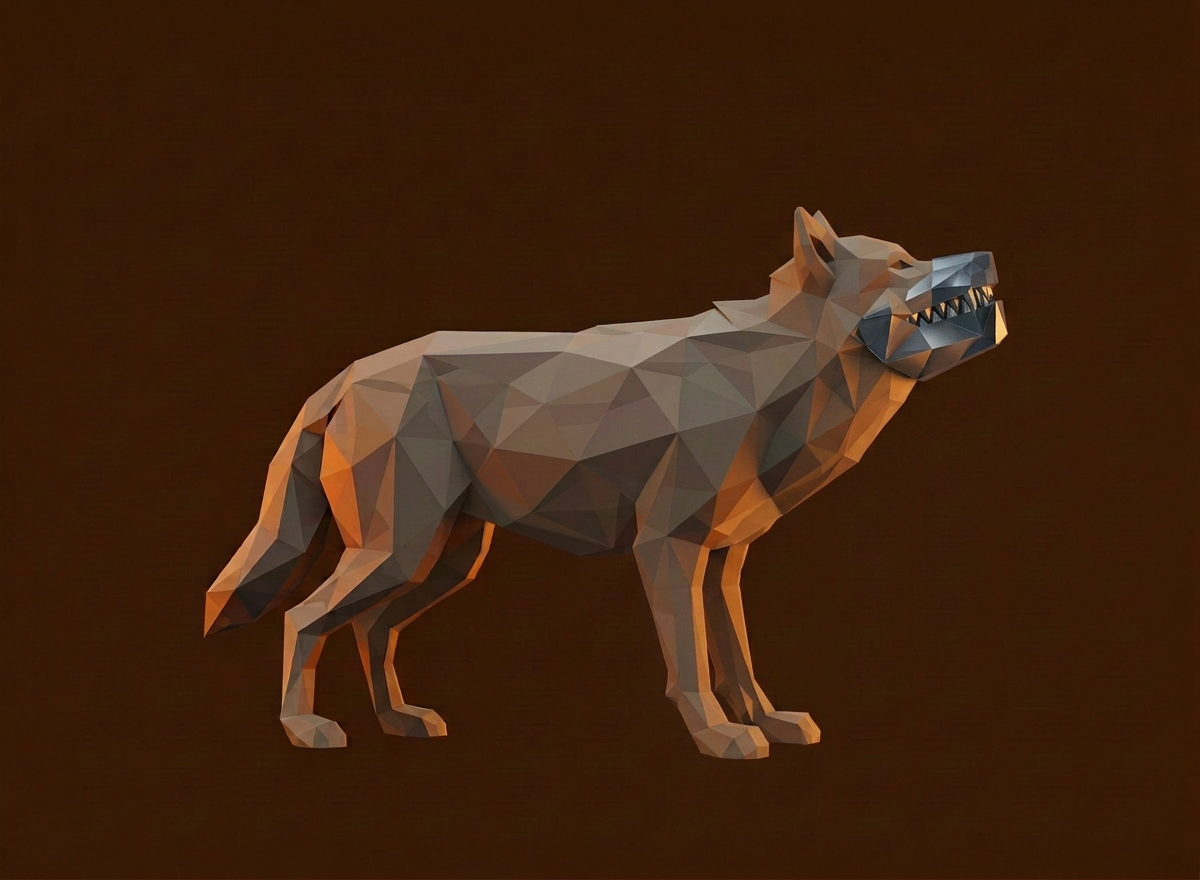
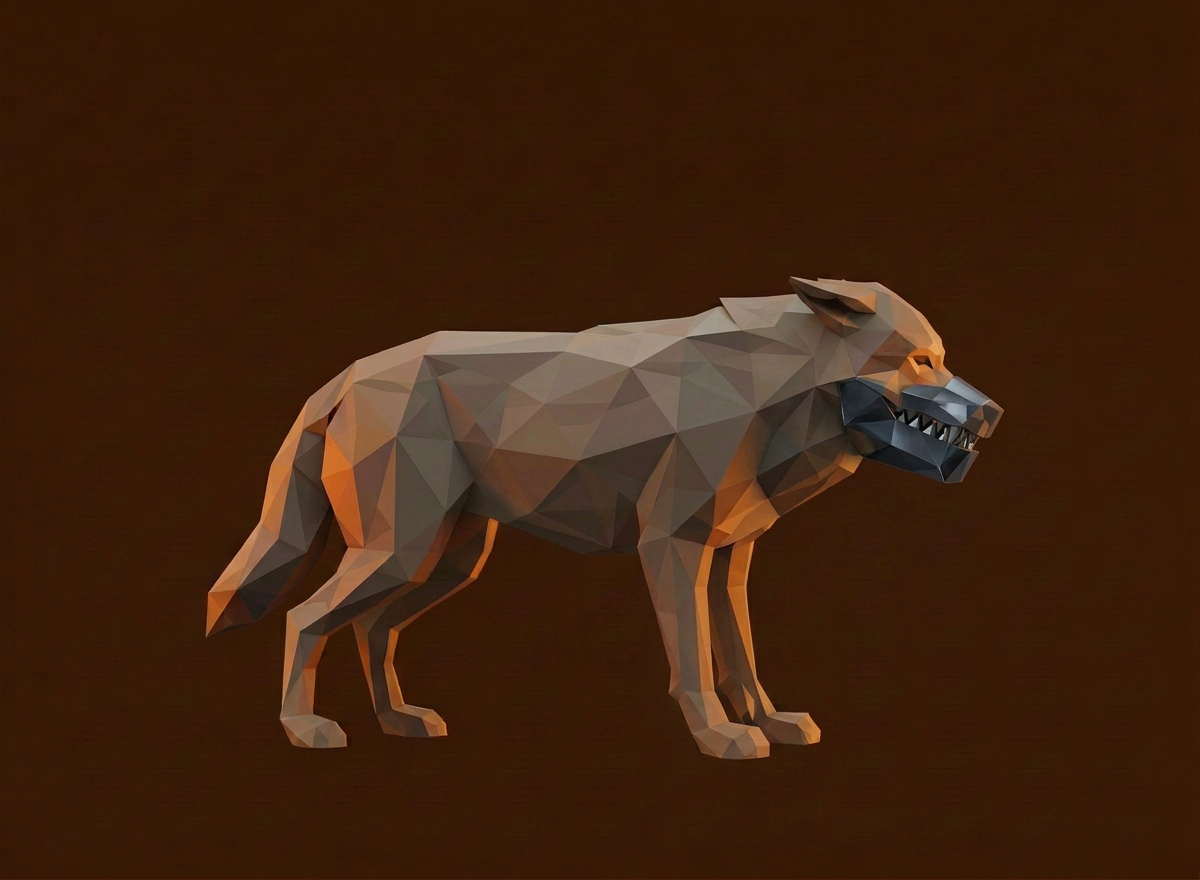
Mandíbula v2 (fonte): acrescenta hurt_2, atk_2/3/6/7/8 e death_0 aprovados; remove idle_2 reprovado; manifesto atualizado

diff --git a/art-source/gemeos-lowpoly/README.md b/art-source/gemeos-lowpoly/README.md
@@ -15,28 +15,32 @@ Corpo: lobo normal em laranja-acastanhado, com os mesmos tons do lobo. Mandíbul
 | Ataque | `attack: 9` | `patas_atk_0..8` | Aceito; `atk_5` com pata mais esticada, conferir no jogo |
 | Morte | `death: 7` | `patas_death_0..6` | Aceito; `death_3` e `death_4` refeitos |
 
+Os arquivos `patas_*` ainda não estão nesta pasta: foram gerados antes, em `/home/user/art_styles/gemeos_lowpoly/`, e precisam ser copiados aqui (ver pendências).
+
 ## Mandíbula v2 (mandíbula de aço grande e visível, também com a boca fechada; pernas sem aço)
-A v1 tinha mandíbula pequena e não aparecia com a boca fechada. A v2 foi refeita a partir dela. Os quadros da v1 foram removidos.
+A v1 tinha mandíbula pequena e não aparecia com a boca fechada. A v2 foi refeita a partir dela; os quadros da v1 foram removidos.
 
 | Conjunto | Código | Arquivos aqui | Estado |
 |---|---|---|---|
 | Base | — | `mandibula_base_v2.png` (= `mandibula_v2_idle_0`) | Aceita |
-| Repouso | `idle: 5` | `mandibula_v2_idle_0..4` (5) | `idle_2` reprovado (pescoço esticado, cabeça alta demais): refazer. `idle_1`, `idle_3`, `idle_4` aceitos |
+| Repouso | `idle: 5` | `mandibula_v2_idle_0`, `_1`, `_3`, `_4` (4 de 5) | `idle_2` reprovado 2 vezes (cabeça alta, pescoço esticado): pendente |
 | Caminhada | `walk: 16` | nenhum | Pausada |
-| Dano | `hurt: 3` | `mandibula_v2_hurt_0..2` | `hurt_2` reprovado (cabeça alta demais): refazer. `hurt_0`, `hurt_1` aceitos |
-| Ataque | `attack: 9` | `mandibula_v2_atk_0..1` (2 de 9) | Em andamento: faltam `atk_2..8` |
-| Morte | `death: 7` | nenhum | Não gerada |
+| Dano | `hurt: 3` | `mandibula_v2_hurt_0..2` (3) | Aceito (3 de 3) |
+| Ataque | `attack: 9` | `mandibula_v2_atk_0..3`, `_6..8` (7 de 9) | `atk_4` (cabeça grande, juba de frente) e `atk_5` (corpo longo e fino) reprovados: pendente |
+| Morte | `death: 7` | `mandibula_v2_death_0` (1 de 7) | Em andamento: faltam `death_1..6` |
 
 ## Descartados (não estão aqui)
 - Versões cinzas das Patas (`patas_base_cinza`, `patas_key_*`): o usuário pediu o corpo laranja.
 - Caminhada de 8 quadros-chave das Patas (`patas_k*`): pata distante fora do chão.
 - Mandíbula v1 (base e repouso pequenos): substituída pela v2.
 - Versão v3 das Patas e os primeiros quadros de morte e ataque: perdidos no reinício do ambiente.
+- Quadros reprovados da v2 (`idle_2`, `atk_4`, `atk_5`): não estão aqui.
 
 ## Pendências para integrar
-1. Mandíbula: refazer `idle_2` e `hurt_2`; gerar `atk_2..8` (7) e morte (7).
-2. Patas: escolher 4 quadros de repouso.
-3. Caminhada das duas (16 cada), pausada.
-4. Corte com `cutlib` para 56×36, pés na linha 36, e medições.
-5. Atualizar `js/creatures.js` apenas quando as contagens baterem.
-6. Build, testes e conferência no navegador.
+1. Copiar os `patas_*` aprovados para esta pasta.
+2. Mandíbula: refazer `idle_2`, `atk_4` e `atk_5`; gerar `death_1..6` (6).
+3. Patas: escolher 4 quadros de repouso.
+4. Caminhada das duas (16 cada), pausada.
+5. Corte com `cutlib` para 56×36, pés na linha 36, e medições.
+6. Atualizar `js/creatures.js` apenas quando as contagens baterem.
+7. Build, testes e conferência no navegador.
